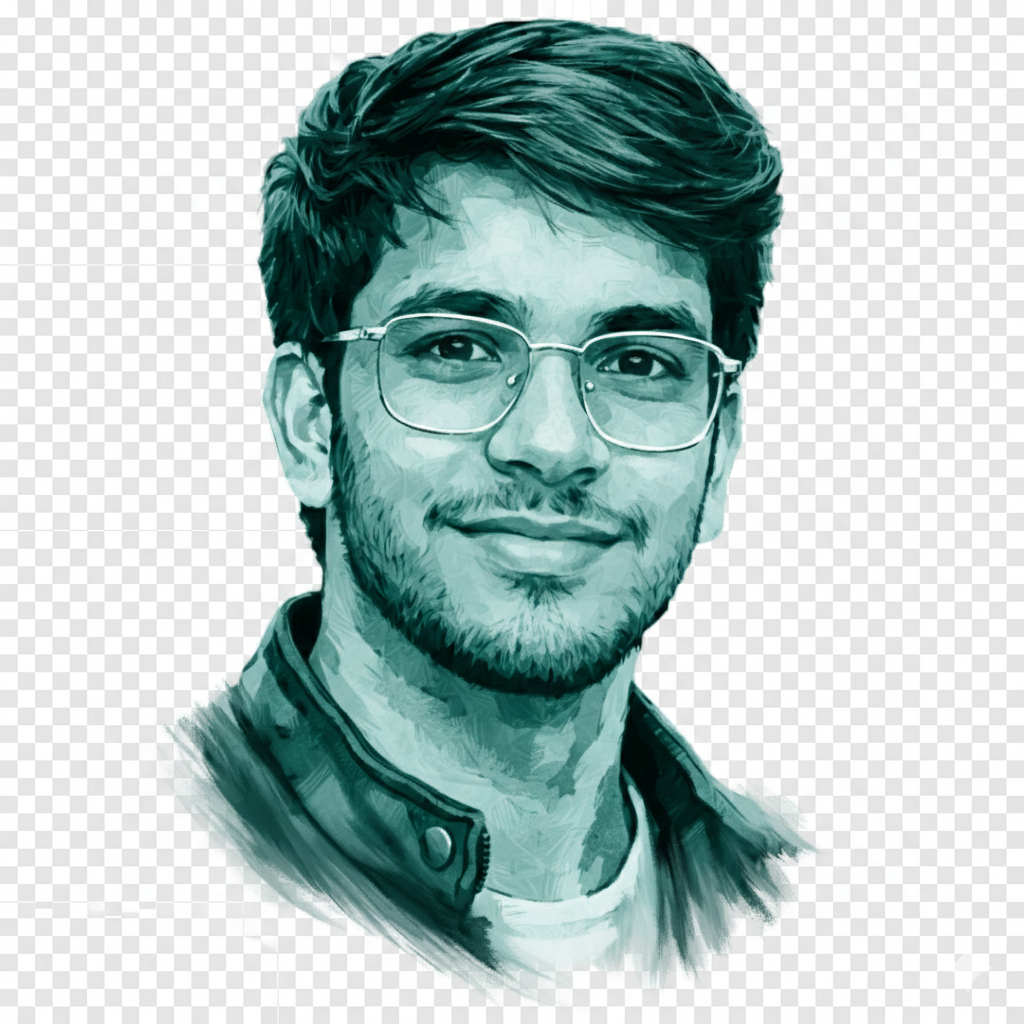
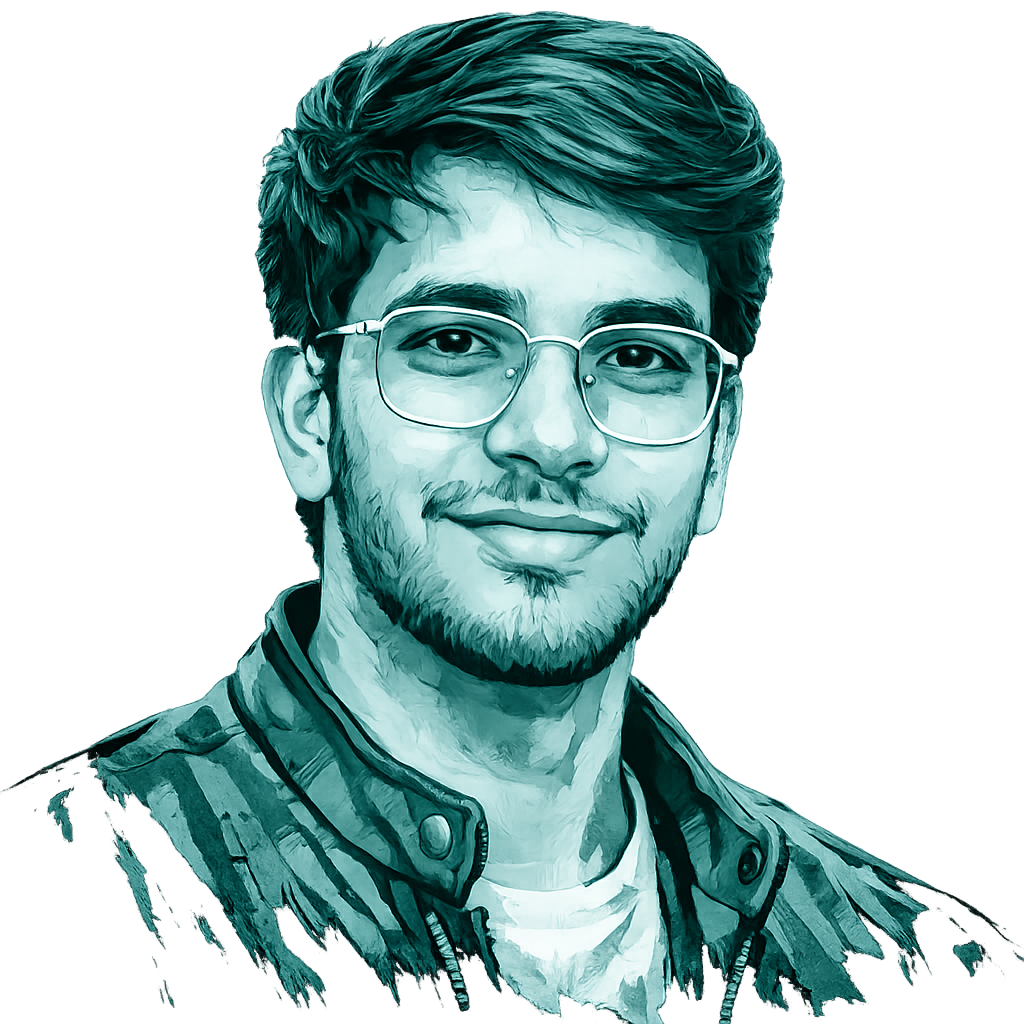
hero img and experience

diff --git a/src/data/experience.ts b/src/data/experience.ts
@@ -1,36 +1,1 @@
-import { type ExperienceShowcaseListItemProps } from "@/components/experience/experience-showcase-list-item";
-
-export const EXPERIENCE: ExperienceShowcaseListItemProps[] = [
-  {
-    title: "Software Developer",
-    organisation: {
-      name: "Skima",
-      href: "https://skima.ai/",
-    },
-    date: "Oct 2023 - Present",
-    location: "Mumbai",
-    description: "Reactjs and Nextjs app development",
-  },
-  {
-    title: "Engineering Trainee",
-    organisation: {
-      name: "Hexaware",
-      href: "https://hexaware.com/",
-    },
-    date: "July 2023 - Sep 2023",
-    location: "Remote",
-    description:
-      "Learned to work we monorepo and got to learn application architecture, scalling and build tooling to improve CI/CD of micro services.",
-  },
-  {
-    title: "Frontend Developer Intern",
-    organisation: {
-      name: "Master Infotech",
-      href: "https://masterinfotech.com/",
-    },
-    date: "Winter - 2022",
-    location: "Remote",
-    description:
-      "Worked on a team responsible for developing new features and updating old codebases to latest technologies. Learned alot about web development and CI/CD development cycle.",
-  },
-];
+export const EXPERIENCE = [];

diff --git a/src/pages/about.tsx b/src/pages/about.tsx
@@ -39,7 +39,7 @@ export default function About() {
         ]}
       />
       <AboutHero />
-      <ExperienceShowcaseList title="Experience" details={EXPERIENCE} />
+      {/* <ExperienceShowcaseList title="Experience" details={EXPERIENCE} /> */}
       <ExperienceShowcaseList title="Education" details={EDUCATION} />
     </>
   );

diff --git a/src/components/about-hero.tsx b/src/components/about-hero.tsx
@@ -20,7 +20,7 @@ export default function AboutHero() {
               height={100}
               className="h-auto w-full px-0 xl:px-16"
               alt="hero image"
-              lightColor="#E0FFFF"
+              lightColor="#ffffff"
               darkColor="#004D4D"
               unoptimized
             />
